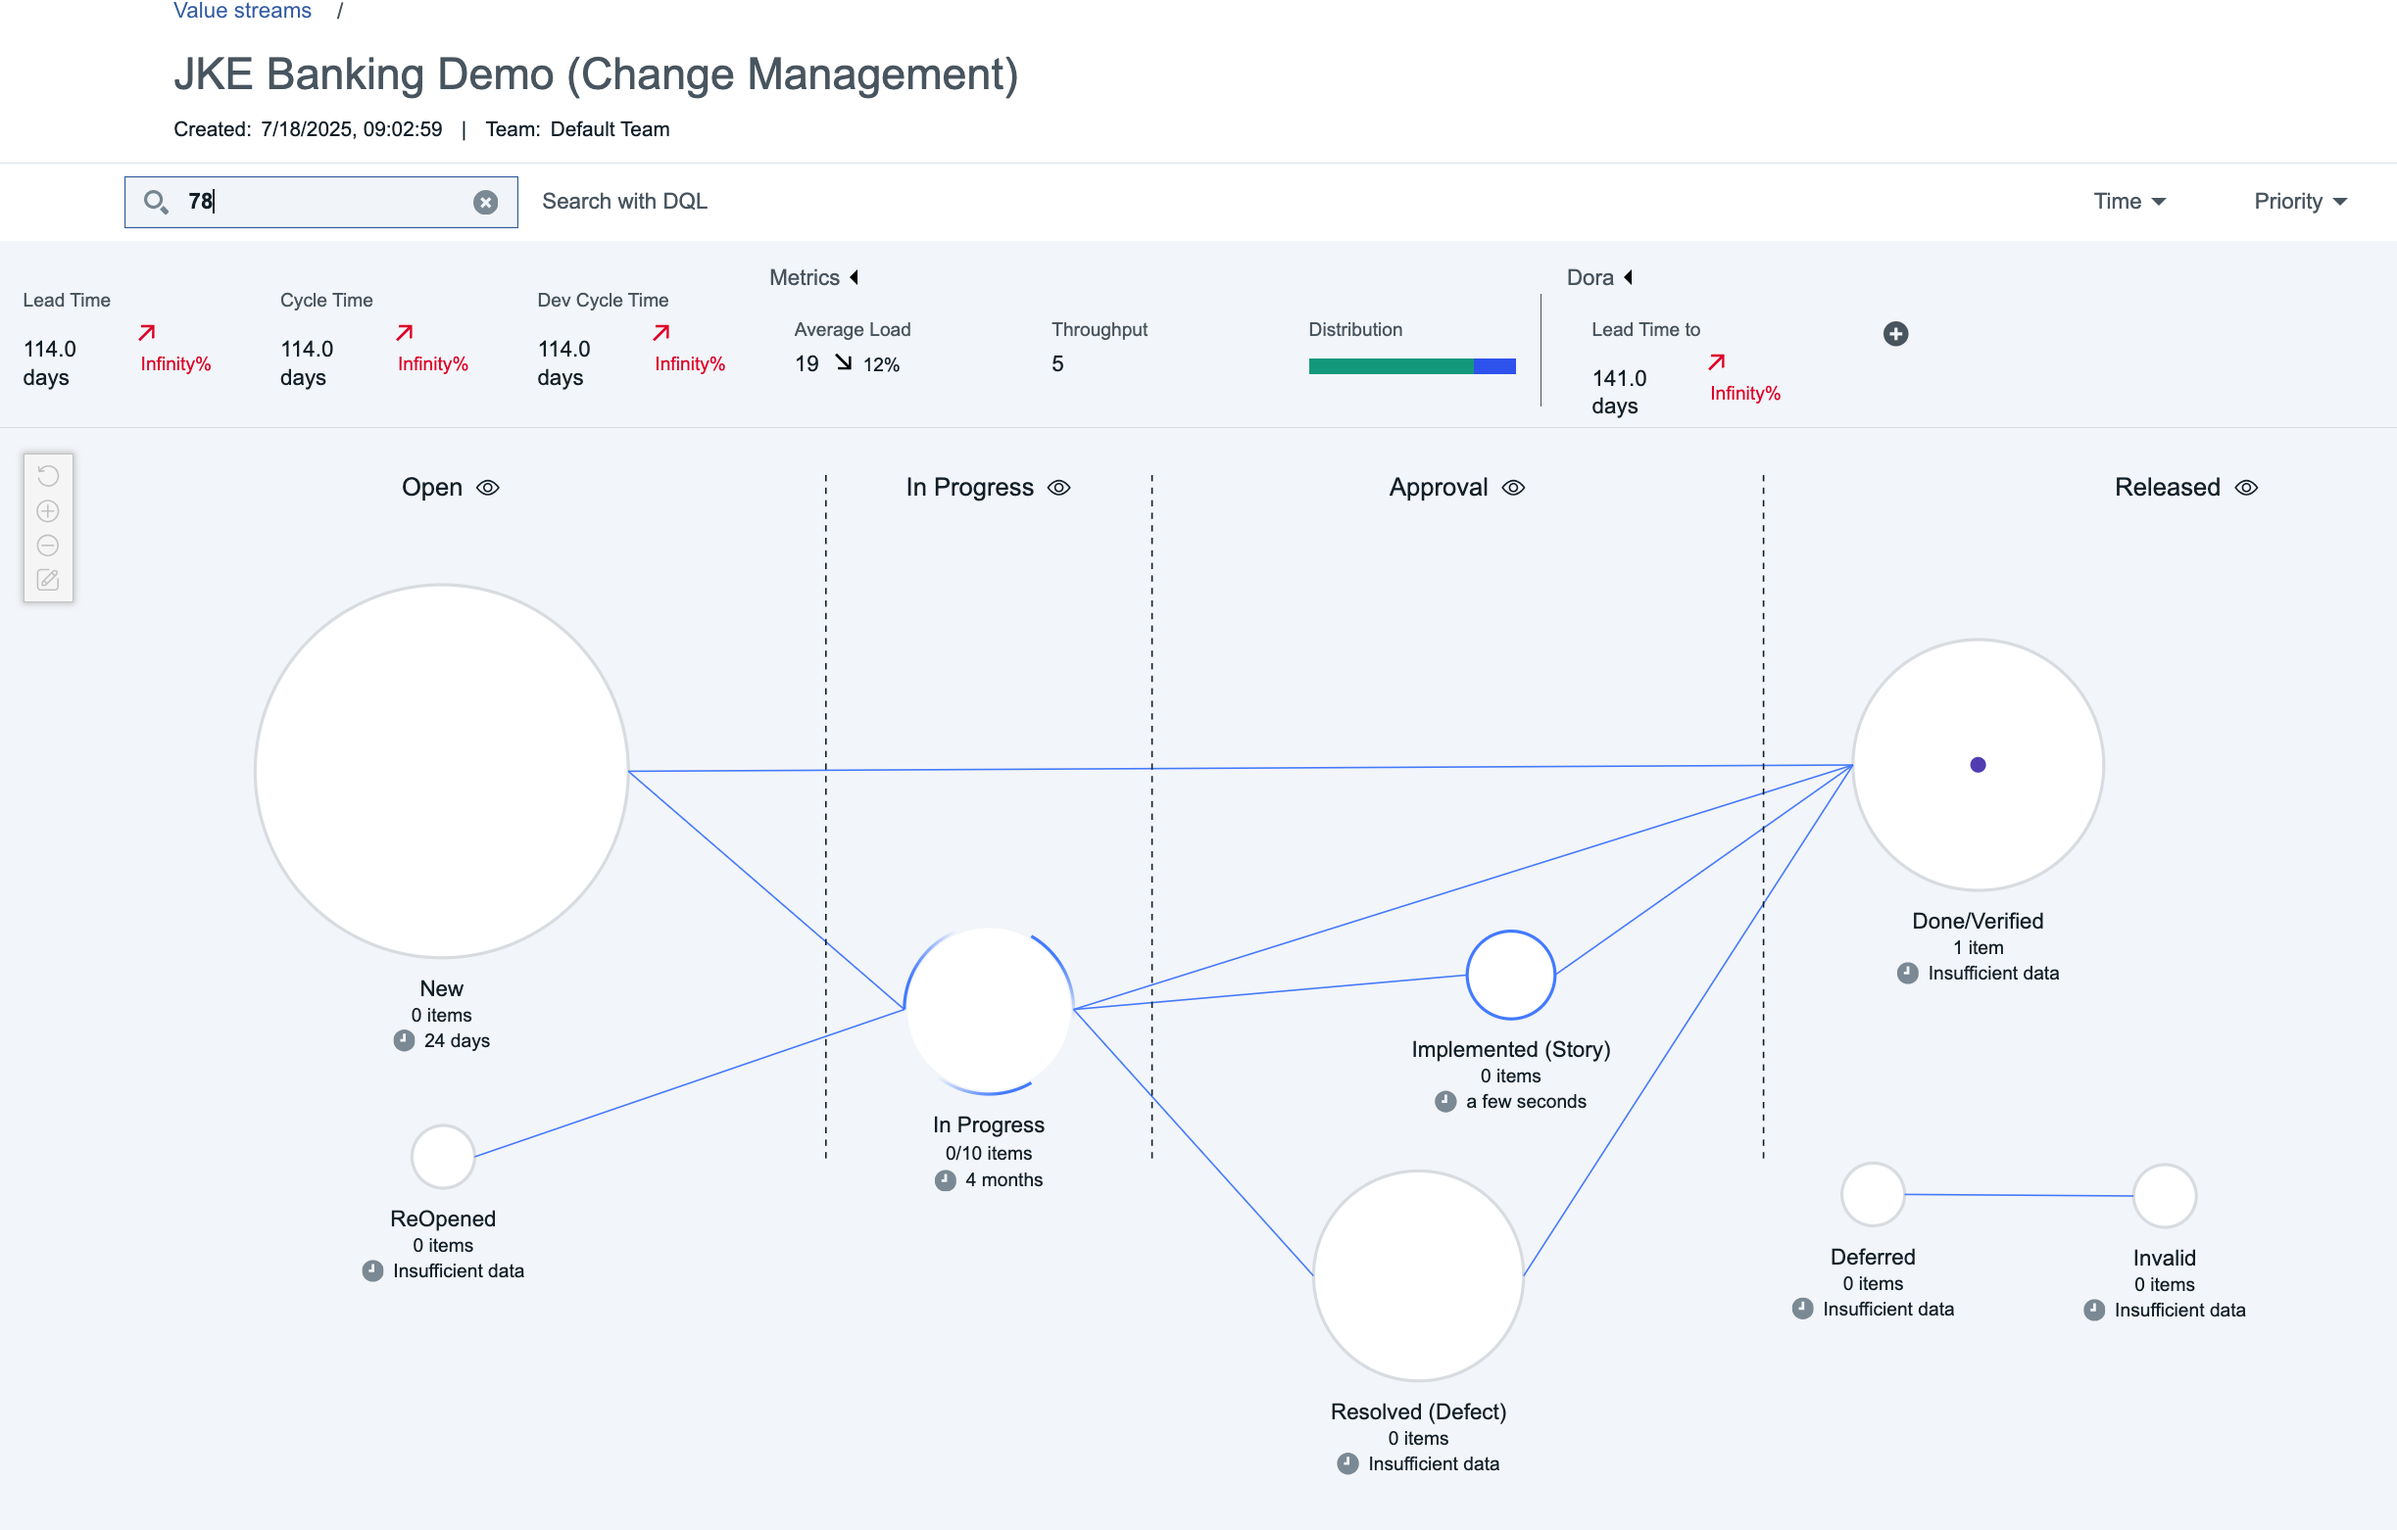
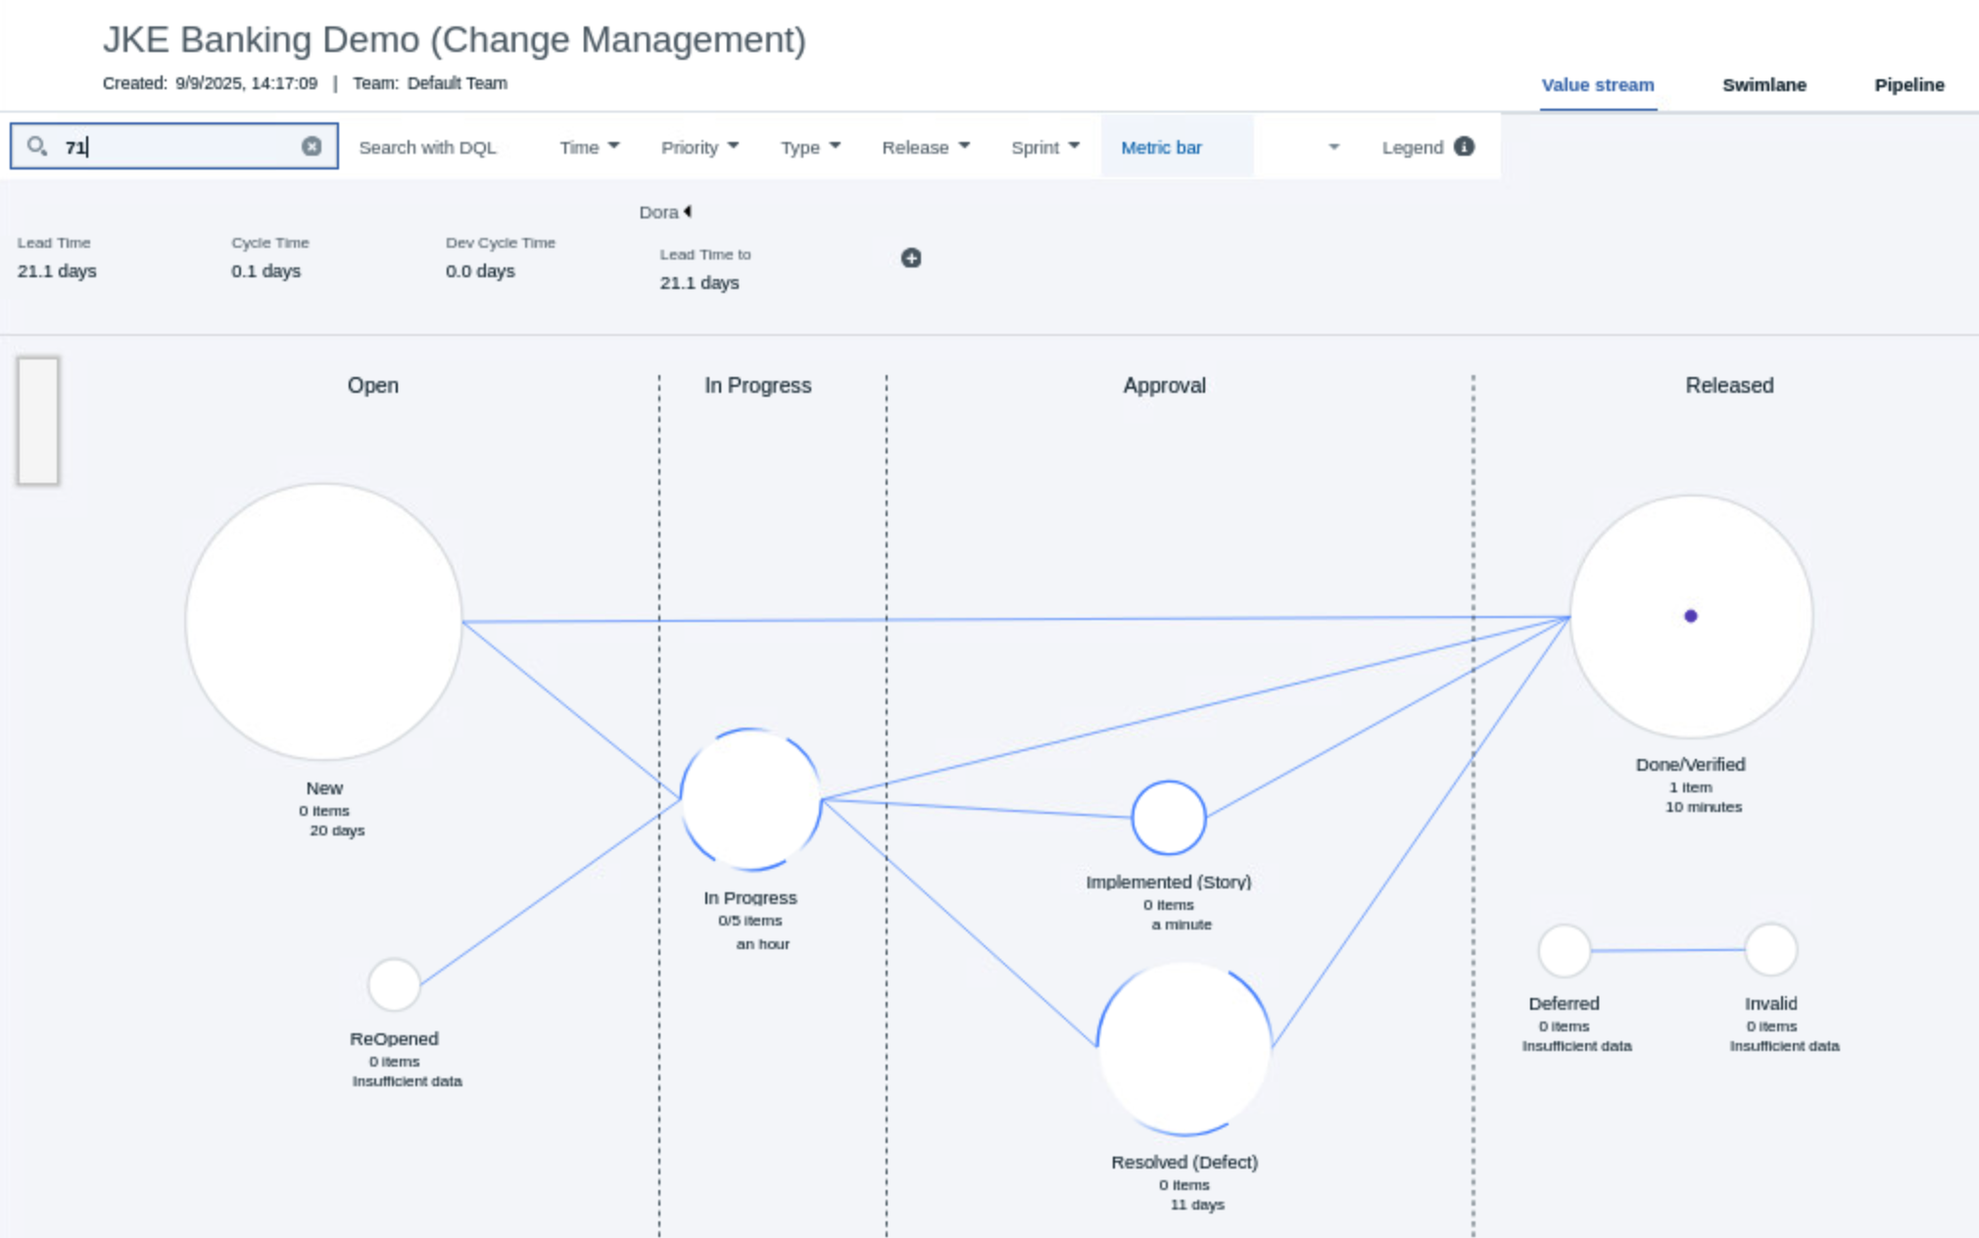
Scenario 2 update

diff --git a/docs/demonstration/index.md b/docs/demonstration/index.md
@@ -169,14 +169,14 @@ Hopefully you have gained an appreciation for the many DevOps Velocity features 
 
 ### 2.1 DevOps Velocity's "Digital Chain of Custody"
 
-The activity performed against every work item, being visualized in DevOps Velocity, is tracked from inception to completion. This assists the team when asked to verify that specific work items have followed the development process by Company Auditors. What could be a large effort checking the different solutions used across the delivery pipeline, DevOps Velocity makes responding to the request simple. In fact, Auditors equipped with access to Velocity could check on compliance for themselves without interrupting the team. 
+The activity performed against every work item, being visualized in DevOps Velocity, is tracked from inception to completion. This assists the team when asked to verify that specific work items have followed the development process by the company's Auditors. What could be a large effort checking the different tooling solutions used across the delivery pipeline, DevOps Velocity makes responding to the request simple. In fact, Auditors equipped with access to Velocity could check on process compliance for themselves without interrupting the team. 
 
 | **Step** | <div style="width:350px">**Details**</div>  | **Additional Information** |
 |:-------------:|:------------- |:------------- |
-| 1 | Working in the "JKE Banking Demo (Change Management)" value stream, perform a plain text search using the string value "78". | <img src="media/d2_1.png" alt="d2_1" style="width:100%; height:auto;"> |
+| 1 | Working in the "JKE Banking Demo (Change Management)" value stream, perform a plain text search using the string value "71". | <img src="media/d2_1.png" alt="d2_1" style="width:100%; height:auto;"> |
 | 2 | Click on the one work item displayed in the "Done/Verified" stage of the Release phase. |   |
 | 3 | On the work item card displayed, scroll down to see a complete audit trail of activities performed against this work item. Including who performed the action and when the action was performed. | <img src="media/d2_2.png" alt="d2_2" style="width:50%; height:auto;"> |
-| 4 | Close the work item card by click the "X" top right. |   |
+| 4 | Close the work item card by clicking anywhere on the value stream view UI. |   |
 
 Congratulations on successfully completing this section of the demonstration.
 
@@ -205,9 +205,9 @@ In this section, you will enable DevOps Velocity's Bottleneck Detection capabili
 | 6 | Return to the "JKE Banking Demo (Change Management)" value stream. |   |
 | 7 | Click the "+" to add the Bottleneck Detection metric to the metrics bar. | <img src="media/d2_6.png" alt="d2_6" style="width:50%; height:auto;"> |
 | 8 | Select "Bottleneck" from the list of metrics presented. |   <img src="media/d2_7.png" alt="d2_7" style="width:50%; height:auto;"> |
-| 9 | Notice that the Bottleneck Detection algorithm has run and that DevOps Velocity has identified that "In Progress" is the slowest point in the delivery pipeline. | <img src="media/d2_8.png" alt="d2_8" style="width:50%; height:auto;"> | 
+| 9 | Notice that the Bottleneck Detection algorithm has run and that DevOps Velocity has identified that "Resolved (Defect)" is the slowest point in the delivery pipeline. | <img src="media/d2_8.png" alt="d2_8" style="width:50%; height:auto;"> | 
 | 9 | Hover the mouse pointer of the Bottleneck metric to get more detail on the type of Bottleneck. | <img src="media/d2_9.png" alt="d2_9" style="width:100%; height:auto;"> |
-| 10 | DevOps Velocity has identified a dominant stage bottleneck because the 4 month wait time in stage value exceeds the sum of all other stage wait time in stage values. |   | 
+| 10 | DevOps Velocity has identified a dominant stage bottleneck because the 11 day wait time in Resolved (Defect) stage value exceeds the sum of all other stage wait time in stage values. |   | 
 
 Congratulations on successfully completing this section of the demonstration.
 
@@ -237,5 +237,5 @@ Feel free to explore the steps shared above in the "JKE Banking Demo (Requiremen
 
 | Software Installed for Demonstration Steps | Software Version |
 |:---- |:----:|
-| DevOps Velocity | v5.1.7 |
-| Engineering Lifecycle Management | v7.1
+| DevOps Velocity | v5.1.9 |
+| Engineering Lifecycle Management | v7.1.0 SR1
